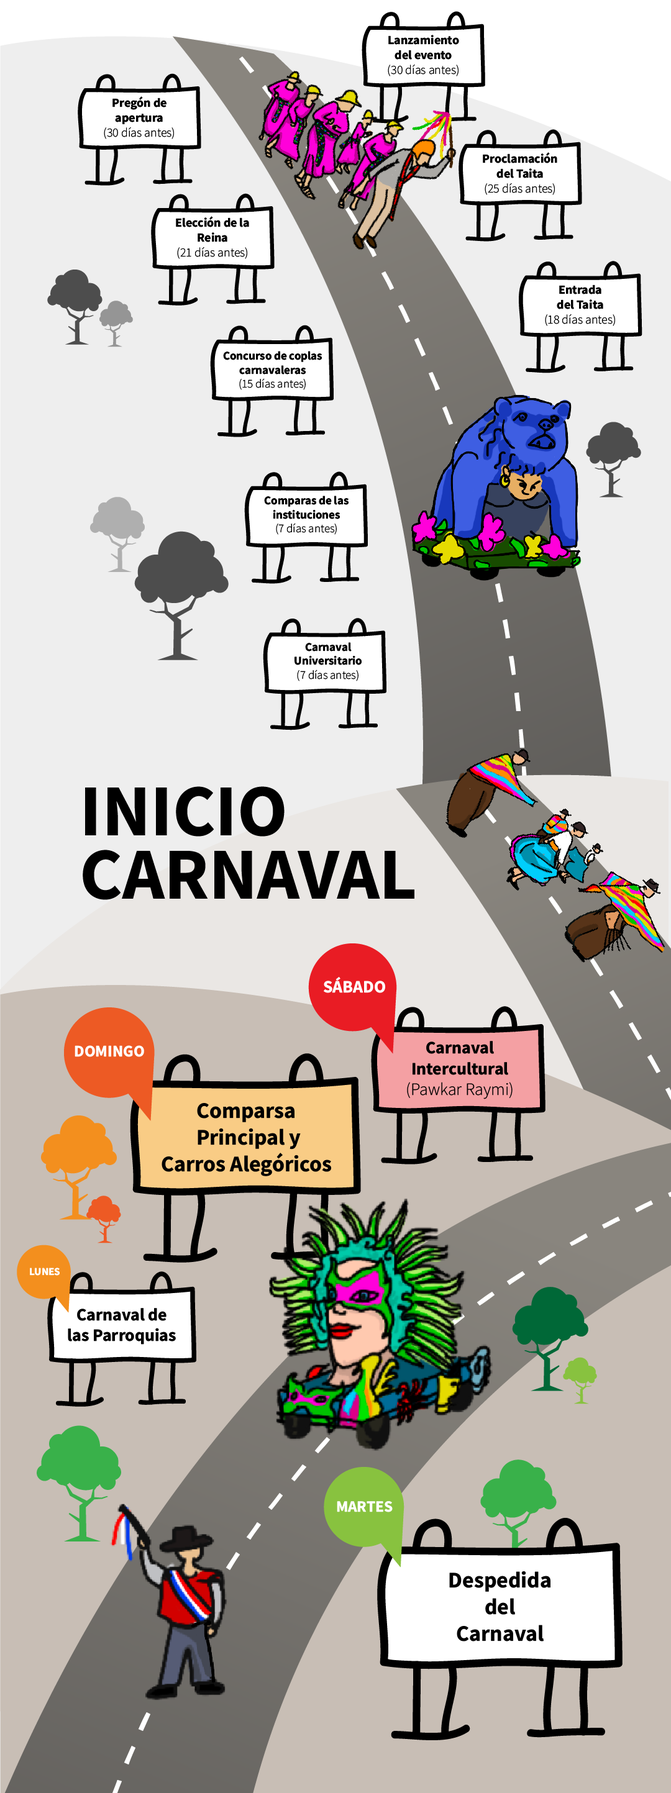
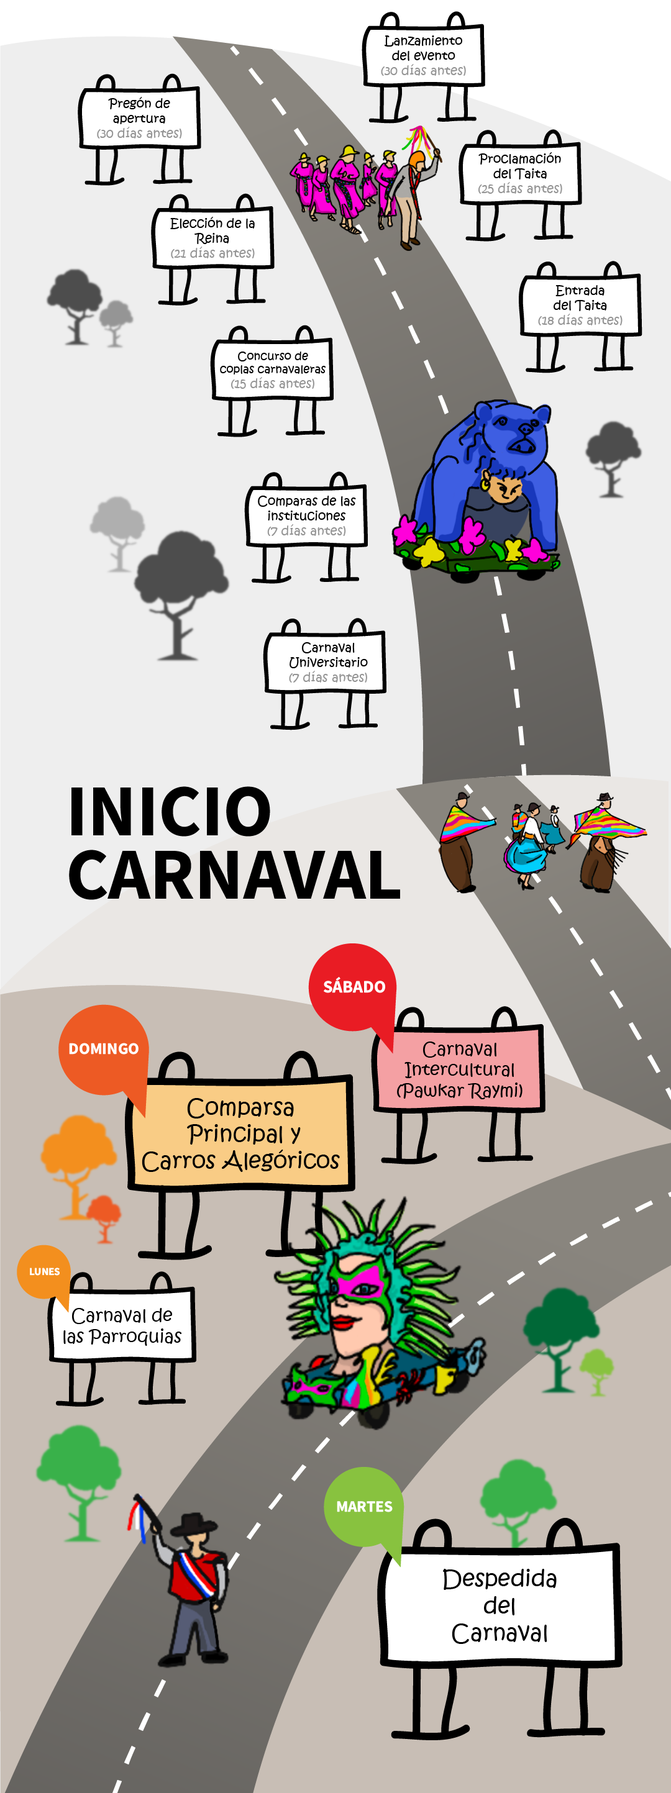
Versión CORREGIDA
Feedback y Correcciones:
- Destacar correctamente (negrita)
- Historias ( que sean 4 párrafos parecidos)
 -Fotos de días de .png a .jpg
- Repensar lo de las tradiciones (una abajo de otra)
- Tipografía alineada con las ilustraciones (itinerario)
- Coherencia ultima foto (vectorial vs .jpg)
- Imagenes con atributo alt="descripción"

diff --git a/index.html b/index.html
@@ -36,7 +36,7 @@
             .timeline:before {
                 position: absolute;
                 top: 0;
-                bottom: 440px;
+                bottom: 350px;
                 left: 40px;
                 width: 7px;
                 margin-left: -2px;
@@ -246,11 +246,11 @@
               <div class="row">
                   <div class="col-sm-10 col-md-8 mx-auto my-5">
                       <p class="lead my-4" align= justify>
-                        Dentro de la provincia de Bolívar en Ecuador, en la <b>ciudad de Guaranda</b>, se realiza el colorido y ruidoso Carnaval de Guaranda. La celebración cultural se encarga de reunir a las familias y turistas durante los días 18 y 21 de febrero (o los 4 días anteriores al miércoles de cenizas). <b>El carnaval se destaca internacionalmente por la variedad de comidas típicas y coloridos bailes</b>, además del culto a la religión, el sincretismo cultural y la presencialidad de la herencia andina.
+                        Dentro de la provincia de Bolívar en Ecuador, en la <b>ciudad de Guaranda</b>, se realiza el colorido y ruidoso Carnaval de Guaranda. La celebración cultural se encarga de <b>reunir a las familias y turistas durante los días 18 y 21 de febrero (o los 4 días anteriores al miércoles de cenizas). </b> El carnaval se destaca internacionalmente por la variedad de comidas típicas y coloridos bailes, además del culto a la religión, el sincretismo cultural y la presencialidad de la herencia andina.
                       </p>
-                      <img src="img/guaranda.png" class="w-100" />
+                      <img src="img/guaranda.png" class="w-100" alt="Detalle sobre la ubicacióon de la ciudad de Guaranda"/>
                       <p class="lead my-4" align= justify>
-                        Ecuador se compone de veinticuatro provincias, una de ellas es Bolívar, la que contiene la renombrada ciudad de Guaranda; ésta se estima que recibe aproximadamente 200.000 turistas entre los feriados que acompañan al festival. Los coloridos desfiles y conciertos son los atractivos para los visitantes que colaboran con la activación de la economía local.
+                        Ecuador se compone de veinticuatro provincias, una de ellas es Bolívar, la que contiene la renombrada ciudad de Guaranda; ésta se estima que <b>recibe aproximadamente 200.000 turistas</b> entre los feriados que acompañan al festival. Los coloridos desfiles y conciertos son los atractivos para los visitantes que colaboran con la activación de la economía local.
                       </p>
                   </div>
               </div>
@@ -264,24 +264,24 @@
                     <ul class="timeline">
                         <li>
                             <div class="timeline-image">
-                              <img src="img/historia1.png" class="rounded-circle img-fluid" width="500" height="500" xmlns="http://www.w3.org/2000/svg" role="img" aria-label="Placeholder: Thumbnail" preserveAspectRatio="xMidYMid slice" focusable="false">
+                              <img src="img/historia1.png" alt="El origen del festival de Guaranda" class="rounded-circle img-fluid" width="500" height="500" xmlns="http://www.w3.org/2000/svg" role="img" aria-label="Placeholder: Thumbnail" preserveAspectRatio="xMidYMid slice" focusable="false">
                                   <rect width="100%" height="100%" fill="#55595c" />
                               </img>
                             </div>
                             <div class="timeline-panel">
                                 <div class="timeline-heading">
-                                    <h4>El orígen</h4>
+                                    <h4>El origen</h4>
                                 </div>
                                 <div class="timeline-body">
                                     <p class="lead my-6">
-                                      El origen del Carnaval se crea a través de mitos y realidades, remontando a la temporada de los <i>Mitimaes</i> (conjunto de indígenas incas del Perú). En aquella época, se llevó a cabo la unión matrimonial de una joven pareja realizada por el <b>Jefe Huaranga</b>, quien también le ordenó a la naturaleza que les compusiera una canción.
+                                      El origen del Carnaval se crea a través de mitos y realidades, remontando a la temporada de los <i>Mitimaes</i> (conjunto de indígenas incas del Perú). En aquella época, se llevó a cabo la <b>unión matrimonial de una joven pareja realizada por el Jefe Huaranga</b>, quien también le ordenó a la naturaleza que les compusiera una canción.
                                     </p>
                                 </div>
                             </div>
                         </li>
                         <li class="timeline-inverted">
                             <div class="timeline-image">
-                                <img src="img/historia2.png" class="rounded-circle img-fluid" width="500" height="500" xmlns="http://www.w3.org/2000/svg" role="img" aria-label="Placeholder: Thumbnail" preserveAspectRatio="xMidYMid slice" focusable="false">
+                                <img src="img/historia2.png" alt="El Dios Taita" class="rounded-circle img-fluid" width="500" height="500" xmlns="http://www.w3.org/2000/svg" role="img" aria-label="Placeholder: Thumbnail" preserveAspectRatio="xMidYMid slice" focusable="false">
                                     <rect width="100%" height="100%" fill="#55595c" />
                                 </img>
                             </div>
@@ -291,14 +291,14 @@
                                 </div>
                                 <div class="timeline-body">
                                     <p class="lead my-6">
-                                      El Gran Dios Taita (entre español y <i>kichwa</i> significa “Gran Padre”) junto a la Madre Naturaleza les compusieron una canción con elementos de la tierra, llena de sonidos de aves y agua. De este modo, la celebración creada por el Taita es un tiempo de disfrute para todos sirviendo como una vía de escape de la vida rutinaria; tres días de pura celebración, música, bailes y comidas tradicionales caracterizan al famoso e internacional Carnaval de Guaranda.
+                                      Al Gran Dios Taita (entre español y <i>kichwa</i> significa “Gran Padre”) junto a la Madre Naturaleza <b>les compusieron una canción con elementos de la tierra, llena de sonidos de aves y agua</b>. De este modo, la celebración creada por el Taita es un tiempo de disfrute para todos sirviendo como una vía de escape de la vida rutinaria.
                                     </p>
                                 </div>
                             </div>
                         </li>
                         <li>
                             <div class="timeline-image">
-                                <img src="img/historia3.png" class="rounded-circle img-fluid" width="500" height="500" xmlns="http://www.w3.org/2000/svg" role="img" aria-label="Placeholder: Thumbnail" preserveAspectRatio="xMidYMid slice" focusable="false">
+                                <img src="img/historia3.png" alt="Relación del carnaval con la Cuaresma" class="rounded-circle img-fluid" width="500" height="500" xmlns="http://www.w3.org/2000/svg" role="img" aria-label="Placeholder: Thumbnail" preserveAspectRatio="xMidYMid slice" focusable="false">
                                     <rect width="100%" height="100%" fill="#55595c" />
                                 </img>
                             </div>
@@ -308,14 +308,14 @@
                                 </div>
                                 <div class="timeline-body">
                                     <p class="lead my-6">
-                                      Los carnavales se conocen ancestralmente por la celebración de algún hito o personaje histórico. Aunque no hay datos concretos de cuándo se realizó el primer carnaval, se cree que sucedió tras la llegada de los conquistadores y se realiza tres días previo a la cuaresma católica, donde se prevé la abstinencia y escasez.
+                                      Los carnavales se conocen ancestralmente por la celebración de algún hito o personaje histórico. Aunque no hay datos concretos de cuándo se realizó el primer carnaval, <b>se cree que sucedió tras la llegada de los conquistadores y se realiza cuatro días previo a la cuaresma católica</b>, donde se prevé la abstinencia y escasez.
                                     </p>
                                 </div>
                             </div>
                         </li>
                         <li class="timeline-inverted">
                             <div class="timeline-image">
-                                <img src="img/historia4.png" class="rounded-circle img-fluid" width="500" height="500" xmlns="http://www.w3.org/2000/svg" role="img" aria-label="Placeholder: Thumbnail" preserveAspectRatio="xMidYMid slice" focusable="false">
+                                <img src="img/historia4.png" alt="¡La fiesta más esperada de Ecuaador!" class="rounded-circle img-fluid" width="500" height="500" xmlns="http://www.w3.org/2000/svg" role="img" aria-label="Placeholder: Thumbnail" preserveAspectRatio="xMidYMid slice" focusable="false">
                                     <rect width="100%" height="100%" fill="#55595c" />
                                 </img>
                             </div>
@@ -325,7 +325,7 @@
                                 </div>
                                 <div class="timeline-body">
                                     <p class="lead my-6">
-                                      El carnaval ha sido una de las fiestas más arraigadas del calendario; en pueblos de Bolívar se ve al festival como una <b>fiesta culta con bailes y versos cantados</b>. La preparación anticipada muestra las ansias del pueblo por comenzar la gran celebración a la mezcla de cultura y religión. Además, se destaca que año tras año, el carnaval nace, se intensifica y muere para volver a nacer; representando el <b>mito del eterno retorno</b>.
+                                      El carnaval ha sido una de las fiestas más arraigadas del calendario. La preparación, con 6 meses de duración, muestran las ansias del pueblo por comenzar la fiesta. Además, se destaca que año tras año, el carnaval nace, se intensifica y muere para volver a nacer; representando el <b>mito del eterno retorno</b>.
                                     </p>
                                 </div>
                             </div>
@@ -341,13 +341,13 @@
                         <!--impar-->
                         <div class="row align-items-center my-3">
                             <div class="col-md-6">
-                                <img src="img/dia1.png" class="w-100" />
+                                <img src="img/dia1.jpg" class="w-100" alt="La festividad del Carnaval de Guaranda" />
                             </div>
                             <div class="col-md-6">
                                 <div class="text-md-start p-4">
                                     <h4>EL CARNAVAL</h4>
                                     <p class="lead my-6">
-                                      Desfilan coloridas comparsas de diversas comunidades campesinas e invitados de otras provincias. Participan los carros alegóricos, bandas de pueblo, grupos folclóricos, escuelas, la Reina de Guaranda y, por supuesto, el Taita. Es aquí donde se juega con serpentinas, talcos, agua y flores, además de presenciar los bailes públicos y los elementos que forman parte de la cultura carnavalesca.
+                                      Desfilan coloridas comparsas de diversas comunidades campesinas e invitados de otras provincias. <b>Participan los carros alegóricos, bandas de pueblo, grupos folclóricos, escuelas, la Reina de Guaranda y, por supuesto, el Taita</b>. Es aquí donde se juega con serpentinas, talcos, agua y flores, además de presenciar los bailes públicos y los elementos que forman parte de la cultura carnavalesca.
                                     </p>
                                 </div>
                             </div>
@@ -355,13 +355,13 @@
                         <!--par-->
                         <div class="row align-items-center my-3">
                             <div class="col-md-6 order-sm-2">
-                                <img src="img/dia2.png" class="w-100" />
+                                <img src="img/dia2.jpg" class="w-100" alt="La importancia del arte en el Carnaval de Guaranda" />
                             </div>
                             <div class="col-md-6">
                                 <div class="text-md-end p-4">
                                     <h4>CELEBRACIÓN AL ARTE</h4>
                                     <p class="lead my-6">
-                                      Los participantes del carnaval exponen su arte manual, se presentan las bandas musicales oriundas, se celebra la cultura junto a los intercambios artísticos que los turistas locales y foráneos están destinados a entonar. La atracción por parte de los turistas nacionales e internacionales ayuda a la recaudación de fondos, donde según informó el alcalde en 2019, se recaudan cerca de 3 millones de dólares anualmente.
+                                      Los participantes del carnaval <b>exponen su arte manual, se presentan las bandas musicales oriundas, se celebra la cultura junto a los intercambios artísticos</b> que los turistas locales y foráneos están destinados a entonar. La atracción por parte de los turistas nacionales e internacionales ayuda a la recaudación de fondos, donde según informó el alcalde en 2019, se recaudan cerca de 3 millones de dólares anualmente.
                                     </p>
                                 </div>
                             </div>
@@ -369,20 +369,20 @@
                         <!--impar-->
                         <div class="row align-items-center my-3">
                             <div class="col-md-6">
-                                <img src="img/dia3.png" class="w-100" />
+                                <img src="img/dia3.jpg" class="w-100" alt="Tradiciones alrededor de la comida en el Carnaval de Guaranda"/>
                             </div>
                             <div class="col-md-6">
                                 <div class="text-md-start p-4">
                                     <h4>FERIA GASTRONÓMICA</h4>
                                     <p class="lead my-6">
-                                      La comida se celebra, ofreciendo <b>platos tradicionales</b>, ollas comunes y bebidas típicas (con y sin alcohol). Todas las casas abren sus puertas para obsequiar platos preparados con los elementos clásicos como ave, maíz, tamales, motes, huevos, entre otros. Esto va acompañado de una vestimenta especial para trasladar la celebración a los patios internos de las casas y así, recibir a los comensales.
+                                      La comida se celebra, ofreciendo platos tradicionales, ollas comunes y bebidas típicas (con y sin alcohol). <b>Todas las casas abren sus puertas para obsequiar platos preparados con los elementos clásicos como ave, maíz, tamales, motes, huevos, entre otros</b>. Esto va acompañado de una vestimenta especial para trasladar la celebración a los patios internos de las casas y así, recibir a los comensales.
                                     </p>
                                 </div>
                             </div>
                         </div>
-                        <h4>TERMINO DEL CARNAVAL</h4>
+                        <h4>TÉRMINO DEL CARNAVAL</h4>
                         <p class="lead my-4" align= justify>
-                            Se reinicia a la vida cotidiana con el miércoles de ceniza. Este día es considerado como una <b>manifestación cultural</b>, religiosa, tradicional que celebra los días anteriores a la cuaresma de la Iglesia Católica. Sirve, según las leyendas de la ciudad, para juntar fuerza y energía para la realización del carnaval más próximo.
+                            <b>Se reinicia a la vida cotidiana con el miércoles de ceniza</b>. Este día es considerado como una manifestación cultural, religiosa, tradicional que celebra los días anteriores a la cuaresma de la Iglesia Católica. Sirve, según las leyendas de la ciudad, para juntar fuerza y energía para la realización del carnaval más próximo.
                         </p>
                     </div>
                 </div>
@@ -392,54 +392,56 @@
                 <div class="ratio ratio-16x9">
                   <iframe width="560" height="315" src="https://www.youtube.com/embed/Un4obeEKyno" title="YouTube video player" frameborder="0" allow="accelerometer; autoplay; clipboard-write; encrypted-media; gyroscope; picture-in-picture" allowfullscreen></iframe>
                 </div>
+
             </section>
+
 
             <section class="container my-5">
                 <div class="row">
-                    <div class="col-12">
+                    <div class="col-sm-10 col-md-9 mx-auto">
                         <h3 class="my-5 text-center">Tradiciones</h3>
                         <p class="lead my-4" align= justify>
-                          El Carnaval es muy completo y eso lo hace una de las fiestas mayores del Ecuador, presentando así múltiples características que fomentan la unión familiar y social, además de representar la unión entre dos etnias de dos continentes; es una mezcla de festividades de la religión Católica y las tradiciones andinas incas.
+                          El Carnaval es muy completo y eso lo hace una de las fiestas mayores del Ecuador, presentando así múltiples características que fomentan la unión familiar y social, además de representar la unión entre dos etnias de dos continentes; es una <b>mezcla de festividades de la religión Católica y las tradiciones andinas incas</b>.
                         </p>
                     </div>
-                    <div class="col-sm-6 col-md-3">
-                        <img src="img/comida.gif" class="rounded-circle img-fluid" viewBox="0 0 100 100" xmlns="http://www.w3.org/2000/svg" focusable="false">
+                    <div class="col-sm-4 col-md-5 mx-auto">
+                        <img src="img/comida.gif" alt="Comidas típicas del Carnaval" class="rounded-circle img-fluid" viewBox="0 0 100 100" xmlns="http://www.w3.org/2000/svg" focusable="false">
                             <rect width="100%" height="100%" fill="#ccc" />
                         </img>
                         <h3></h3>
                         <h4 align=center>COMIDA</h4>
                         <p class="lead my-6" align= justify>
-                          Abunda la presencia del maíz en todas sus formas, al igual que el ceviche, el chancho, el mote y la papa en una gran variedad de texturas. Se llenan las calles guarandeñas y patios de las casas con comidas tradicionales, caseras y abundantes de sabor.
+                          Abunda la presencia del <b>maíz en todas sus formas, al igual que el ceviche, el chancho, la papa y el mote</b> en una gran variedad de texturas. Se llenan las calles guarandeñas y patios de las casas con comidas tradicionales, caseras y abundantes de sabor.
                         </p>
                     </div>
-                    <div class="col-sm-6 col-md-3">
-                        <img src="img/musica.gif" class="rounded-circle img-fluid" viewBox="0 0 100 100" xmlns="http://www.w3.org/2000/svg" focusable="false">
+                    <div class="col-sm-4 col-md-5 mx-auto">
+                        <img src="img/musica.gif" alt="Música típica del Carnaval" class="rounded-circle img-fluid" viewBox="0 0 100 100" xmlns="http://www.w3.org/2000/svg" focusable="false">
                             <rect width="100%" height="100%" fill="#ccc" />
                         </img>
                         <h3></h3>
                         <h4 align=center>MÚSICA Y DANZAS</h4>
                         <p class="lead my-6" align= justify>
-                          Es una fiesta animada por comparsas, pregones, contrapuntos y bailes públicos que forman parte de la cultura carnavalesca. Se presentan incontables coreografías ensayadas por semanas, al igual que la infaltable música; donde predomina la melodía andina y también música contemporánea.
+                          Es una fiesta animada por comparsas, pregones, contrapuntos y bailes públicos que forman parte de la cultura carnavalesca. Se presentan <b>incontables coreografías ensayadas por semanas</b>, al igual que la infaltable música; donde predomina la <b>melodía andina</b> y también música contemporánea.
                         </p>
                     </div>
-                    <div class="col-sm-6 col-md-3">
-                        <img src="img/tradiciones.gif" class="rounded-circle img-fluid" viewBox="0 0 100 100" xmlns="http://www.w3.org/2000/svg" focusable="false">
+                    <div class="col-sm-4 col-md-5 mx-auto">
+                        <img src="img/tradiciones.gif" alt="Elementos decorativos típicos del Carnaval" class="rounded-circle img-fluid" viewBox="0 0 100 100" xmlns="http://www.w3.org/2000/svg" focusable="false">
                             <rect width="100%" height="100%" fill="#ccc" />
                         </img>
                         <h3></h3>
                         <h4 align=center>ELEMENTOS</h4>
                         <p class="lead my-6" align= justify>
-                          Se juega con serpentinas, lociones, flores. Esta mixtura de elementos, junto al talco, los polvos y el agua principian a verificar una original transformación en los rostros de los participantes. Cada detalle: el agua, el talco y los perfumes, las serpentinas y los dulces, son regalos para el que viene de visita, para el ser querido.
+                          Se juega con <b>serpentinas, lociones y flores</b>. Esta mixtura de elementos, junto al talco, los polvos y el agua principian a verificar una original transformación en los rostros de los participantes. Cada detalle: el agua, el talco y los perfumes, las serpentinas y los dulces, son regalos para el que viene de visita, para el ser querido.
                         </p>
                     </div>
-                    <div class="col-sm-6 col-md-3">
-                        <img src="img/religion.gif" class="rounded-circle img-fluid" viewBox="0 0 100 100" xmlns="http://www.w3.org/2000/svg" focusable="false">
+                    <div class="col-sm-4 col-md-5 mx-auto">
+                        <img src="img/religion.gif" alt="Relación del Carnaval con la religión" class="rounded-circle img-fluid" viewBox="0 0 100 100" xmlns="http://www.w3.org/2000/svg" focusable="false">
                             <rect width="100%" height="100%" fill="#ccc" />
                         </img>
                         <h3></h3>
                         <h4 align=center>RELIGIÓN</h4>
                         <p class="lead my-6" align= justify>
-                          Por la calendarización, el Carnaval está ligado a la Iglesia Católica, aunque posee una mezcla entre aquella y la tradición indígena: el mito del eterno retorno, es cumplir con el ciclo vital, que año tras año se lo vuelve a vivir; el tiempo que precede al recogimiento espiritual.
+                          Por la calendarización, el Carnaval está <b>ligado a la Iglesia Católica</b>, aunque posee una mezcla entre aquella <b>y la tradición indígena</b>: el mito del eterno retorno, es cumplir con el ciclo vital, que año tras año se lo vuelve a vivir; el tiempo que precede al recogimiento espiritual.
                         </p>
                     </div>
                 </div>
@@ -459,31 +461,31 @@
                             </div>
                             <div class="carousel-inner">
                                 <div class="carousel-item active">
-                                  <img src="img/taita.png" class="w-100" />
+                                  <img src="img/taita.png" class="w-100" alt="El Taita"/>
                                     <div class="carousel-caption lead my-6">
                                       <h5 >El Taita</h5>
-                                      <p> Conocido como el "Gran Taita", es quien encabeza los desfiles y baila al compás de la música del pueblo mientras que saborea el legendario y tradicional licor pájaro azul.</p>
+                                      <p> Conocido como el "Gran Taita", es <b>quien encabeza los desfiles</b> y baila al compás de la música del pueblo mientras que saborea el legendario y tradicional licor pájaro azul.</p>
                                     </div>
                                 </div>
                                 <div class="carousel-item">
-                                    <img src="img/reina.png" class="w-100" />
+                                    <img src="img/reina.png" class="w-100" alt="La Reina"/>
                                     <div class="carousel-caption lead my-60">
                                         <h5>La Reina</h5>
-                                        <p> Es elegida comunitariamente, debe representar la unión, la feminidad y ser un modelo a seguir de la comunidad. </p>
+                                        <p> Es <b>elegida comunitariamente</b>, debe representar la unión, la feminidad y ser un modelo a seguir de la comunidad. </p>
                                     </div>
                                 </div>
                                 <div class="carousel-item">
-                                    <img src="img/carishina.png" class="w-100" />
+                                    <img src="img/carishina.png" class="w-100" alt="Carishina"/>
                                     <div class="carousel-caption lead my-6" >
                                         <h5>Carishina</h5>
-                                        <p> Es un hombre que se viste de mujer, que va al frente en los carros alegóricos y estos son decorados con flores y paja, así como también encabeza las comparsas. </p>
+                                        <p> Es un <b>hombre que se viste de mujer</b>, que va al frente en los carros alegóricos y estos son decorados con flores y paja, así como también encabeza las comparsas. </p>
                                     </div>
                                 </div>
                                 <div class="carousel-item">
-                                    <img src="img/huasi.png" class="w-100" />
+                                    <img src="img/huasi.png" class="w-100" alt="Huasi Tupac"/>
                                     <div class="carousel-caption lead my-6">
                                         <h5>Huasi Tupac</h5>
-                                        <p>El alma del Carnaval; están encargados de recibir a los carnavaleros con hermandad y cortesía. Hacen preguntas al público por medio de canciones que, de ser contestadas correctamente, son recompensadas con comida típica.</p>
+                                        <p><b>El alma del Carnaval</b>; están encargados de recibir a los carnavaleros con hermandad y cortesía. Hacen preguntas al público por medio de canciones que, de ser contestadas correctamente, son recompensadas con comida típica.</p>
                                     </div>
                                 </div>
                             </div>
@@ -504,7 +506,7 @@
                 <div class="row g-0">
                     <div class="col-12 text-center">
                         <h3 class="my-5 text-center">Preparativos</h3>
-                        <img src="img/trayecto.png" class="w-100" />
+                        <img src="img/trayecto.png" class="w-100" alt="Itinerario general del Carnaval de Guaranda"/>
                     </div>
                 </div>
             </section>
@@ -518,7 +520,6 @@
                         <p> Puig, Vicente </p>
                         <p> Raffo, María Ignacia </p>
                         <p> Rodriguez, Florencia </p>
-
                     </div>
                 </div>
             </section>
